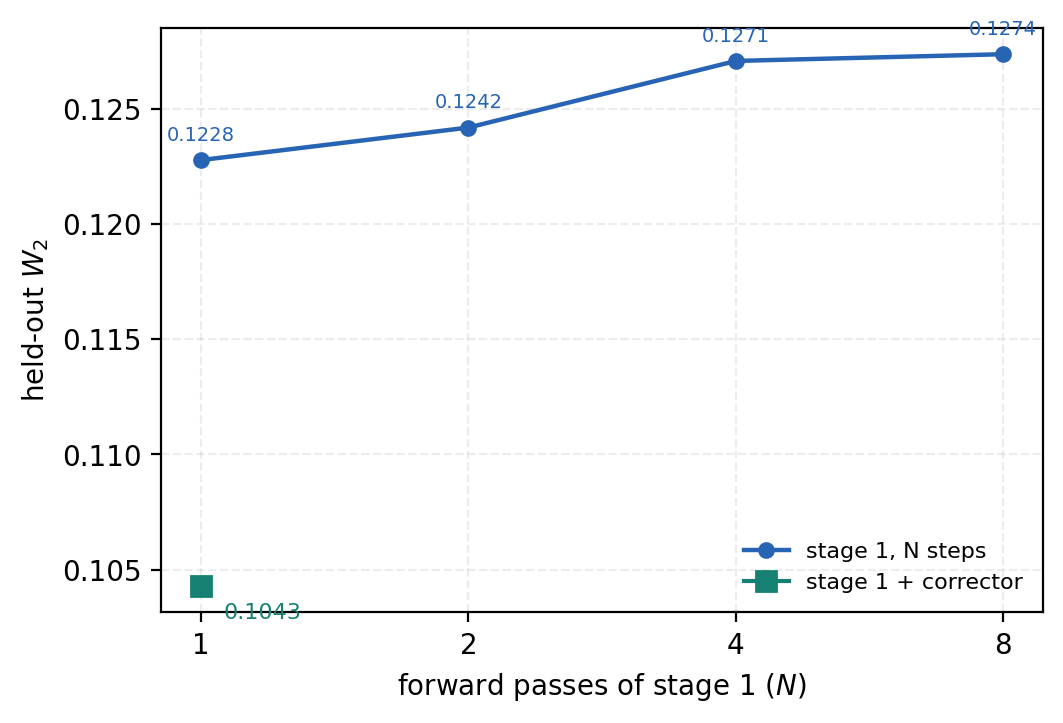
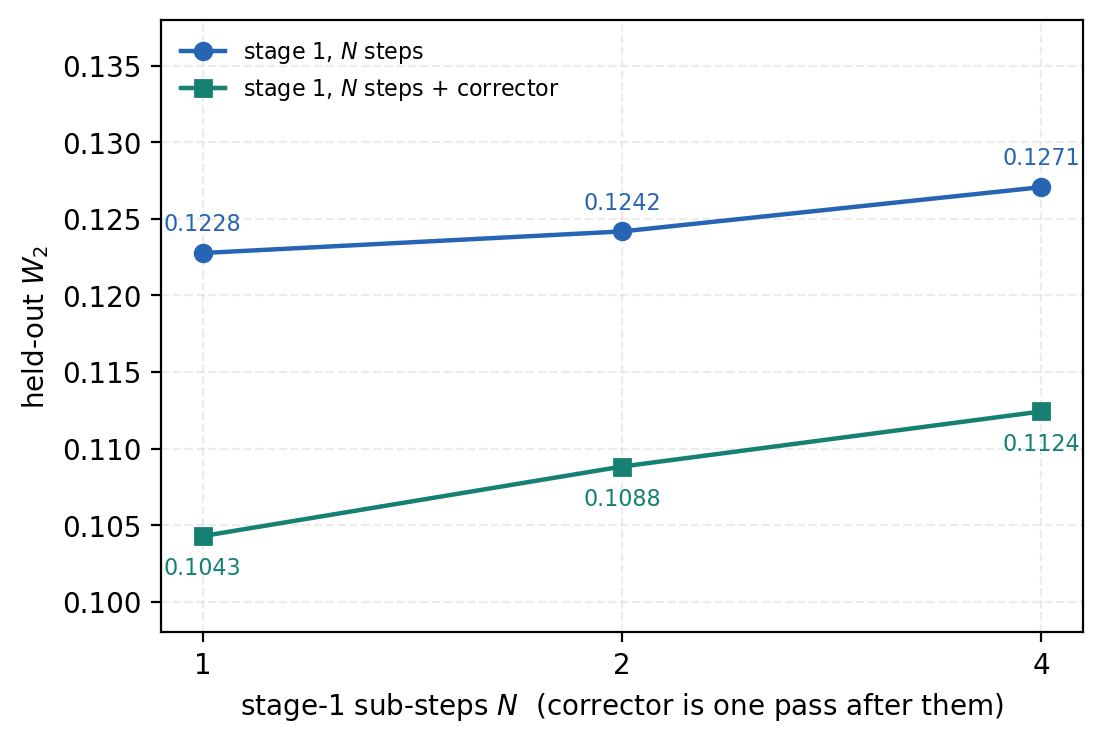
文档: 步数对照补上修正器，并加入单参数 W2 曲线
同步时间: 2026-11-18 00:20:50 (UTC+8)

diff --git a/scripts/report_figures.py b/scripts/report_figures.py
@@ -336,33 +336,78 @@ def fig_matched_cost() -> None:
 
 
 def fig_nstep() -> None:
+    """Stage 1 at N=1,2,4, and the same outputs after one corrector pass."""
     payload = load("nstep/nstep_s88.json")
     if not payload:
         print("  skip fig_nstep")
         return
-    rows = payload["rows"]
+    rows = [r for r in payload["rows"] if r["steps"] in (1, 2, 4)]
     steps = [r["steps"] for r in rows]
     mf = [r["mf_mean_w2"] for r in rows]
     dp = [r["mf_dp_mean_w2"] for r in rows]
 
-    fig, ax = plt.subplots(figsize=(5.2, 3.5), layout="constrained")
-    ax.plot(steps, mf, marker="o", ms=5, lw=1.6, color=COLORS["mf"],
-            label="stage 1, N steps")
-    ax.plot([1], [dp[0]], marker="s", ms=7, color=COLORS["mf_dp"],
-            label="stage 1 + corrector")
-    ax.annotate(f"{dp[0]:.4f}", xy=(1, dp[0]), xytext=(8, -12),
-                textcoords="offset points", fontsize=8, color=COLORS["mf_dp"])
+    fig, ax = plt.subplots(figsize=(5.4, 3.6), layout="constrained")
+    ax.plot(steps, mf, marker="o", ms=6, lw=1.6, color=COLORS["mf"],
+            label="stage 1, $N$ steps")
+    ax.plot(steps, dp, marker="s", ms=6, lw=1.6, color=COLORS["mf_dp"],
+            label="stage 1, $N$ steps + corrector")
     for x, y in zip(steps, mf):
-        ax.annotate(f"{y:.4f}", xy=(x, y), xytext=(0, 7), textcoords="offset points",
-                    fontsize=7, ha="center", color=COLORS["mf"])
+        ax.annotate(f"{y:.4f}", xy=(x, y), xytext=(0, 8), textcoords="offset points",
+                    fontsize=8, ha="center", color=COLORS["mf"])
+    for x, y in zip(steps, dp):
+        ax.annotate(f"{y:.4f}", xy=(x, y), xytext=(0, -14), textcoords="offset points",
+                    fontsize=8, ha="center", color=COLORS["mf_dp"])
     ax.set_xscale("log", base=2)
     ax.set_xticks(steps, [str(s) for s in steps])
-    ax.set(xlabel="forward passes of stage 1 ($N$)", ylabel="held-out $W_2$")
+    ax.set_ylim(0.098, 0.138)
+    ax.set(xlabel="stage-1 sub-steps $N$  (corrector is one pass after them)",
+           ylabel="held-out $W_2$")
     ax.grid(alpha=.23, ls="--")
-    ax.legend(frameon=False, fontsize=8)
+    ax.legend(frameon=False, fontsize=8, loc="upper left")
     fig.savefig(OUT / "fig_nstep.png", bbox_inches="tight")
     plt.close(fig)
     print("  wrote fig_nstep.png")
+
+
+def fig_sigma_w2() -> None:
+    """Single-parameter W2 against sigma. This run only: no external overlay."""
+    import csv
+
+    path = ROOT / "results" / "ks3d" / "evaluation" / "ks" / "summary.csv"
+    if not path.exists():
+        print("  skip fig_sigma_w2")
+        return
+    by_method: dict[str, list[tuple[float, float, float]]] = {
+        "mf": [], "dp": [], "mf_dp": [],
+    }
+    with path.open(encoding="utf-8") as handle:
+        for row in csv.DictReader(handle):
+            method = row["method"]
+            if method not in by_method:
+                continue
+            by_method[method].append((
+                float(row["sigma"]), float(row["mean_w2"]), float(row["sd_w2"]),
+            ))
+    series = (
+        ("mf", "one-step map", COLORS["mf"], "o"),
+        ("dp", "corrector alone", COLORS["mf_2step"], "D"),
+        ("mf_dp", "map + corrector", COLORS["mf_dp"], "s"),
+    )
+    fig, ax = plt.subplots(figsize=(6.2, 3.6), layout="constrained")
+    for key, label, color, marker in series:
+        points = sorted(by_method[key])
+        xs = [p[0] for p in points]
+        ys = [p[1] for p in points]
+        yerr = [p[2] for p in points]
+        ax.errorbar(xs, ys, yerr=yerr, marker=marker, ms=4.5, lw=1.5, capsize=2,
+                    color=color, label=label)
+    ax.set(xlabel=r"shear parameter $\sigma$  ($\mu = 1$)",
+           ylabel=r"$W_2$ (16-bin histogram)")
+    ax.grid(alpha=.23, ls="--")
+    ax.legend(frameon=False, fontsize=8)
+    fig.savefig(OUT / "fig_sigma_w2.png", bbox_inches="tight")
+    plt.close(fig)
+    print("  wrote fig_sigma_w2.png")
 
 
 def main() -> int:
@@ -375,6 +420,7 @@ def main() -> int:
         fig_physics()
         fig_extrapolation()
         fig_nstep()
+        fig_sigma_w2()
         fig_matched_cost()
     return 0
 

diff --git a/docs/HARRY_NOTE.md b/docs/HARRY_NOTE.md
@@ -79,7 +79,7 @@ The initial cloud is uniform in the unit ball and is **shared by every parameter
 
 ### 2.2 Stage 1 — parametric MeanFlow
 
-The code follows the upstream endpoint convention. \(x_{\mathrm{src}}\) is a particle from the initial cloud and \(x_{\mathrm{tgt}}\) is a particle from the simulated terminal cloud. The regression target points from the terminal cloud back toward the initial cloud:
+\(x_{\mathrm{src}}\) is a particle from the initial cloud and \(x_{\mathrm{tgt}}\) is a particle from the simulated terminal cloud. The regression target points from the terminal cloud back toward the initial cloud:
 
 \[
 v = x_{\mathrm{src}}-x_{\mathrm{tgt}},
@@ -133,22 +133,30 @@ The headline corrector is trained at \(\alpha=1\). Section 5.3 then scales \(\al
 
 ---
 
-## 3. What I contributed
+## 3. What this note covers
 
-| piece | source |
-|---|---|
-| MeanFlow identity, JVP training, one-step and two-step samplers, KS integrator, histogram \(W_2\) | upstream snapshot, unmodified |
-| Conditioning the same architecture on \((\sigma,\mu)\), and the \(20\times 10\) grid | this project |
-| The corrector's two-parameter extension, the OT-target loop, and the batch/coupling alignment | this project |
-| The four-row comparison, the interior-only retraining, the seed-transfer test, and the cost account | this project |
+The same implementation is used throughout:
 
-The upstream single-parameter KS3D reproduction is a baseline, not the claim. On that baseline the re-run matches the upstream history to a maximum absolute deviation of 0.0066 on 180 metrics. The question in this note is asked on the two-parameter system.
+- the MeanFlow identity, Jacobian–vector-product training, one-step and multi-step sampling, the Keller–Segel integrator, and histogram \(W_2\);
+- conditioning on \((\sigma,\mu)\), and the \(20\times 10\) grid;
+- the corrector, its optimal-transport targets, and the alignment of each batch with its coupling;
+- the four-row comparison, the interior-only retraining, the seed-transfer test, and the cost account.
+
+### 3.1 One parameter, \(\mu=1\)
+
+With the diffusion coefficient fixed at \(\mu=1\), the map and the corrector are trained at each shear \(\sigma\) from 10 to 200. The metric is the same 16-bin histogram \(W_2\). Error bars are the standard deviation across three seeds.
+
+![Histogram W2 against the shear parameter for the one-parameter model.](../results/report_figures/fig_sigma_w2.png)
+
+*Figure 1. Single-parameter sweep at \(\mu=1\). The map-plus-corrector curve is below the one-step map at every \(\sigma\). The corrector used on its own is not. Completed.*
+
+The sections below ask when that second stage still pays once both \(\sigma\) and \(\mu\) are inputs.
 
 ---
 
 ## 4. What was held fixed
 
-The prespecified distributional metric is the exact Wasserstein-2 distance between 16-bin-per-axis histograms, solved by the same network simplex, with the dual certificate checked. It was fixed before the comparison. All \(W_2\) numbers in one table share that metric. Absolute values are not claimed to match the published table of Shen et al. (2026); the shape of the single-parameter curve agrees with that table and the scale does not, and this note does not rest on the absolute scale.
+The prespecified distributional metric is the exact Wasserstein-2 distance between 16-bin-per-axis histograms, solved by the same network simplex, with the dual certificate checked. It was fixed before the comparison. All \(W_2\) numbers in one table share that metric.
 
 | axis | headline comparison | where a row differs, it is named |
 |---|---|---|
@@ -181,7 +189,7 @@ Paired \(t=6.02\) on 3 seeds. The corrector also cuts the across-seed standard d
 
 ![Cross-seed standard deviation and coefficient of variation, with and without the corrector.](../results/report_figures/fig_reproducibility.png)
 
-*Figure 1. Across-seed scatter of the mean error. Left: standard deviation. Right: coefficient of variation, so the one-parameter and two-parameter systems can be compared after their different error levels. Completed.*
+*Figure 2. Across-seed scatter of the mean error. Left: standard deviation. Right: coefficient of variation, so the one-parameter and two-parameter systems can be compared after their different error levels. Completed.*
 
 ### 5.2 Four configurations at matched cost — completed
 
@@ -189,7 +197,7 @@ All four rows are two-parameter networks. They are scored on the **same 112 cell
 
 ![Held-out error and relative reduction for the four configurations.](../results/report_figures/fig_matched_cost.png)
 
-*Figure 2. Left: histogram \(W_2\) on the 112 common held-out cells. The purple bar is the mean of three width-112 seeds; the dots are those seeds. Right: error reduction relative to the one-step map. The error bar on (c) is the standard deviation of the three seeds. The green bar is one fitted pair, so it has no seed bar. Completed.*
+*Figure 3. Left: histogram \(W_2\) on the 112 common held-out cells. The purple bar is the mean of three width-112 seeds; the dots are those seeds. Right: error reduction relative to the one-step map. The error bar on (c) is the standard deviation of the three seeds. The green bar is one fitted pair, so it has no seed bar. Completed.*
 
 | configuration | parameters | stage-1 passes | corrector passes | \(W_2\) | vs (a) |
 |---|---:|---:|---:|---:|---:|
@@ -203,20 +211,19 @@ Row (d) spends a second evaluation of the same average-velocity field and the er
 
 A wider one-parameter network, 9,027 to 134,403 parameters, was tried earlier on the single-parameter task and also failed to move the error (0.1486 to 0.1456). That run is a different task. It is cited only as a second place where width was not the binding constraint.
 
-Extending row (d) from 2 steps to 8 steps, on the headline 143-cell set, keeps moving the wrong way:
+On the 143-cell headline set, the same stage-1 weights are evaluated on \(N\in\{1,2,4\}\) equal sub-intervals of \([0,1]\). The corrector, trained on one-step outputs, is then applied **once** to each of those clouds.
 
-| stage-1 steps \(N\) | stage-1 \(W_2\) | vs \(N=1\) |
-|---:|---:|---:|
-| 1 | 0.12277 | — |
-| 2 | 0.12418 | −1.1% |
-| 4 | 0.12707 | −3.5% |
-| 8 | 0.12736 | −3.7% |
+| stage-1 steps \(N\) | stage 1 | vs \(N=1\) | stage 1, then corrector | vs one-step stage 1 |
+|---:|---:|---:|---:|---:|
+| 1 | 0.12277 | — | **0.10429** | **+15.0%** |
+| 2 | 0.12418 | −1.1% | 0.10883 | +11.4% |
+| 4 | 0.12707 | −3.5% | 0.11243 | +8.4% |
 
-The corrector on this same 143-cell set, one pass after one stage-1 pass, is at 0.10429. These 143 cells are not the 112 cells of Figure 2; the two corrector numbers differ by 0.00007.
+More stage-1 steps raise the error. One corrector pass after two or four steps still lowers it relative to the one-step map, by less than the corrector does after a single step. These 143 cells are not the 112 cells of Figure 3; the one-step corrector differs by 0.00007 (0.10429 against 0.10422).
 
-![Error against the number of stage-1 evaluations.](../results/report_figures/fig_nstep.png)
+![Held-out error for one, two, and four stage-1 steps, with and without one corrector pass.](../results/report_figures/fig_nstep.png)
 
-*Figure 3. More evaluations of stage 1, still at horizon \(T\). The green square is the corrector. This is the 143-cell headline set. Completed.*
+*Figure 4. Same stage-1 weights at every \(N\). The corrector is one pass after those sub-steps, still at horizon \(T\). Completed, 143 cells.*
 
 ### 5.3 Correction strength, chosen on a development split — completed
 
@@ -239,7 +246,7 @@ The 143 held-out cells of the seed-88 checkpoint were split once, with the split
 
 ![Development curve for the correction strength, with the untouched test points.](../results/report_figures/fig_alpha.png)
 
-*Figure 4. \(\alpha\) scaled at inference. The development curve is flat between 1.5 and 2.0, so the selected value is a point on a plateau. The claim this supports is that the training value \(\alpha=1\) is conservative on this split. Completed.*
+*Figure 5. \(\alpha\) scaled at inference. The development curve is flat between 1.5 and 2.0, so the selected value is a point on a plateau. The claim this supports is that the training value \(\alpha=1\) is conservative on this split. Completed.*
 
 This sweep does not retrain the head at each \(\alpha\). A re-training sweep is listed as proposed.
 
@@ -251,7 +258,7 @@ One corrector evaluation is 34,816 FLOPs per particle against 17,664 for one sta
 |---|---:|---:|---|
 | (a) one stage-1 pass | 1.77 | 1.00× | 0.12271 on 112 cells |
 | (d) two stage-1 passes | 3.53 | 2.00× | worse, §5.2 |
-| (d) extended to 8 passes | 14.13 | 8.00× | worse, Figure 3 |
+| (d) extended to 4 passes | 7.07 | 4.00× | worse, Figure 4 |
 | (b) stage 1 + corrector | **5.25** | **2.97×** | 0.10422 on 112 cells |
 
 The deployment cost that belongs next to the 15% reduction is 2.97× FLOPs. Calling it "two passes" understates the second pass.
@@ -278,7 +285,7 @@ The rms radius is the entry the corrector makes slightly worse. It is left in th
 
 ![Anisotropy scatter and mean relative error of five physical summaries.](../results/report_figures/fig_physics.png)
 
-*Figure 5. Left: predicted against reference anisotropy on the six cells. Right: mean absolute relative error. Completed.*
+*Figure 6. Left: predicted against reference anisotropy on the six cells. Right: mean absolute relative error. Completed.*
 
 ### 6.2 Repeated application — completed, and this is a failure
 
@@ -293,7 +300,7 @@ The map is trained on pairs \((x_{\mathrm{src}}, x_{\mathrm{tgt}})\) at one hori
 
 ![Log-scale error against the number of times the one-step map is applied.](../results/report_figures/fig_rollout.png)
 
-*Figure 6. Six cells. The dashed line is the reproducibility floor of that particle count. Every cell leaves the floor by the second application. The worst cell is kept. Completed.*
+*Figure 7. Six cells. The dashed line is the reproducibility floor of that particle count. Every cell leaves the floor by the second application. The worst cell is kept. Completed.*
 
 The mechanism is visible in the state, not only in the metric. One application moves the centroid by about 1.3–2.3 and the rms radius into the range 0.84–1.57, so the second application receives a cloud outside the training input. The same divergence appears at seeds 89 and 90 (at \(k=4\), each seed is between about 100× and 500× the floor) and on the one-parameter model (at \(k=8\), 3,745×–4,015× its own floor). Non-iterability belongs to a fixed-horizon transport, and the two-parameter map diverges further.
 
@@ -303,7 +310,7 @@ Spending the second forward pass on another MeanFlow sub-step, at the same two-p
 
 ![Error after four applications, three maps, three cells.](../results/report_figures/fig_rollout_method.png)
 
-*Figure 7. After four applications. Each bar is two forward passes. The orange bars are a second stage-1 sub-step. The worst cell shown, `s19_m09`, goes from 82.5 (stage 1) to 77.2 (corrector) to 318 (two-step stage 1). Completed.*
+*Figure 8. After four applications. Each bar is two forward passes. The orange bars are a second stage-1 sub-step. The worst cell shown, `s19_m09`, goes from 82.5 (stage 1) to 77.2 (corrector) to 318 (two-step stage 1). Completed.*
 
 Eight applications cost tens of milliseconds. One physical simulation of \(10^5\) particles at this horizon costs about 83 seconds on the same laptop GPU. Cost is not why iteration is out of scope. The map has no step-to-step meaning to iterate.
 
@@ -346,7 +353,7 @@ Training cells and held-out interior cells agree to 0.2% in stage-1 error, so th
 
 ![Stage-1 and corrected error by region, and the corrector's relative gain.](../results/report_figures/fig_extrapolation.png)
 
-*Figure 8. The left-hand "interior" bar pools the 45 training cells with the 90 held-out interior cells (135 cells, gain 14.7%). The table above splits them. The three right-hand bars are the outside zones. Completed, on the 45-cell interior-only run.*
+*Figure 9. The left-hand "interior" bar pools the 45 training cells with the 90 held-out interior cells (135 cells, gain 14.7%). The table above splits them. The three right-hand bars are the outside zones. Completed, on the 45-cell interior-only run.*
 
 A one-parameter control, trained on \(\sigma\in[15,150]\) at fixed \(\mu=1\), still has a **+13.3%** corrector gain on \(\sigma\in[160,200]\), against **+15.7%** inside, while stage-1 error grows only **1.19×**. The single lower endpoint \(\sigma=10\) retains +8.4%. A one-dimensional family keeps more of the gain than the two-dimensional one. Both numbers are from their own training runs.
 
@@ -416,10 +423,10 @@ Measured wall-clock on the RTX 4060 Laptop, for orientation rather than as the m
 
 **Completed, and used above.**
 
-- Upstream single-parameter reproduction, as a baseline.
+- The single-parameter sweep of \(W_2\) against \(\sigma\), at \(\mu=1\).
 - Two-parameter stage 1 and the paired corrector, three seeds, 143 held-out cells.
 - Rows (a)–(d) on one 112-cell intersection, with three seeds on the capacity-matched row.
-- The 1-, 2-, 4-, and 8-step stage-1 sweep.
+- Stage 1 at 1, 2, and 4 sub-steps, with one corrector pass after each.
 - \(\alpha\) chosen on 50 development cells and reported on 93 test cells.
 - Physical summaries, repeated application, and the longer-horizon retrain.
 - The interior-only retraining, the seed-transfer test, the reference-cloud probe, the few-cell sweep, and the two-cell Jacobian check.
@@ -458,7 +465,7 @@ The figure is a density picture, not the metric. It is the cell \((\sigma,\mu)=(
 
 ![Three orthogonal projections of the reference, the one-step map, and the corrected map, with a signed density error.](../results/figures/projection_hero_combined.png)
 
-*Figure 9. Rows: reference, one-step map, map plus corrector. Columns: \(x\)–\(y\), \(x\)–\(z\), \(y\)–\(z\), and the signed \(x\)–\(z\) density error. Completed as a visualisation of one selected cell.*
+*Figure 10. Rows: reference, one-step map, map plus corrector. Columns: \(x\)–\(y\), \(x\)–\(z\), \(y\)–\(z\), and the signed \(x\)–\(z\) density error. Completed as a visualisation of one selected cell.*
 
 ## Appendix B. Two caveats that apply to every table
 

diff --git a/CHANGELOG.md b/CHANGELOG.md
@@ -15,8 +15,15 @@
 
 ## [Unreleased]
 
+### 变更
+
+- **`docs/HARRY_NOTE.md` 与 `docs/HARRY_NOTE.zh.md`**：§5.2 的步数图改为第一阶段 \(N=1,2,4\) 与各自再接一次修正器两条曲线（数字来自已有 `nstep_s88.json`）；加入单参数 \(W_2\)–\(\sigma\) 曲线，不叠外部参照；删去“上游快照 / 本项目”的区分
+- **`scripts/report_figures.py`**：`fig_nstep` 画出两条曲线；新增 `fig_sigma_w2`
+- **`.cursor/rules/harry-note-bilingual.mdc`**：之后改 Harry 笔记时中英文同一轮同步
+
 ### 新增
 
+- **`results/report_figures/fig_sigma_w2.png`** — \(\mu=1\) 时一步映射、单独修正器、映射加修正器的 \(W_2\) 对 \(\sigma\)，误差棒为三种子标准差
 - **`docs/HARRY_NOTE.md`** — 可直接发给 Harry 的英文技术笔记：方程按 `fullscale/train.py` 与 `scripts/dp_two_param.py` 的实现书写（速度方向为 \(x_{\mathrm{src}}-x_{\mathrm{tgt}}\)），四路对照用 112 个共同留出格，外推实验标明为单独的 45 格内点训练，Autel 一节留空
 - **`docs/HARRY_NOTE.zh.md`** — 上述英文笔记的中文译文；数字、公式与图片路径未改
 - **`results/report_figures/fig_matched_cost.png`** — 与上述四路对照同一口径的图；左图紫色柱为宽度 112 的三种子均值，点为各种子。`scripts/report_figures.py` 增加 `fig_matched_cost`
